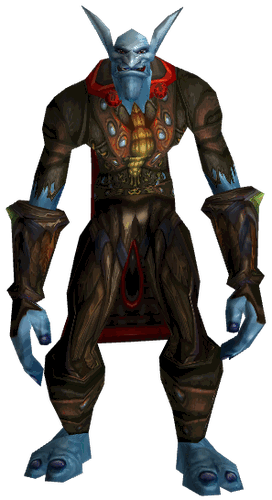
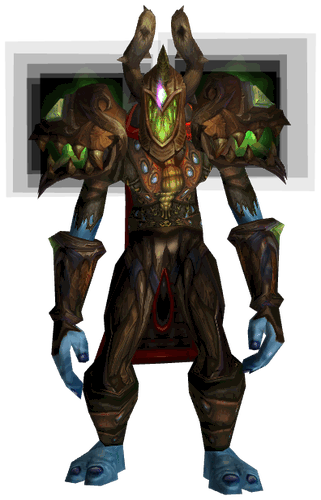
Renderiza las 31 fichas con el equipo completo
Las 31 fichas muestran ahora su personaje con casco, hombreras y toda la
armadura, incluidos los tres paladines, que hasta ahora caían al retrato de
raza porque el elfo de sangre no llegaba a dibujarse.

La causa de todo era el parche que forzaba preserveDrawingBuffer a true, que
yo mismo había añadido para poder leer el lienzo desde JavaScript. Rompía el
dibujado de los modelos pesados y de la geometría adjunta a huesos. Al
quitarlo funcionan el elfo de sangre, el casco y las hombreras, que llevaba
descartados como imposibles.

Sin ese parche no se puede leer el lienzo desde la página, así que la captura
pasa a hacerse con Puppeteer sobre el elemento, que toma el fotograma ya
compuesto. La configuración del visor replica la de Wowhead, capturada
interceptando su constructor: env 'wrath', hd:false y charCustomization con
raza y género dentro.

Se alejó la cámara un 35 %: el visor encuadra tan justo que las hombreras de
tier se salían. El ajuste se reaplica antes de cada captura porque el visor
reencuadra solo al terminar de cargar.

Las armas quedan fuera del render: su fulgor se dibuja como un cuadrado
opaco pegado al personaje, y al estar unido a él no se puede recortar. El
equipo completo se sigue viendo con el enlace 'Ver en 3D'.

Comprobado que ningún personaje toca los bordes del lienzo, y revalidado el
responsive en 6 páginas y 13 anchos de 320 a 2560 px sin desbordes ni
solapes, con las fichas entrando en una pantalla.

diff --git a/web/paladin-proteccion.html b/web/paladin-proteccion.html
@@ -340,9 +340,9 @@ body{background:var(--bg);color:var(--tx);
   </span>
[1 lines of base64/hex data omitted]
 </div></div>
-  <div class="ctr">
+  <div class="ctr con-personaje">
     <div class="ctr-bg" aria-hidden="true"></div>
[1 lines of base64/hex data omitted]
+    <img class="personaje" src="assets/personajes/paladin-proteccion.png" alt="Elfo de sangre" loading="lazy">
     <p class="ctr-t">
       <span class="i18n race" data-es="Elfo de sangre" data-en="Blood Elf">Elfo de sangre</span>
       <span class="i18n fac" data-es="Horda" data-en="Horde">Horda</span>

diff --git a/web/paladin-reprension.html b/web/paladin-reprension.html
@@ -340,9 +340,9 @@ body{background:var(--bg);color:var(--tx);
   </span>
[1 lines of base64/hex data omitted]
 </div></div>
-  <div class="ctr">
+  <div class="ctr con-personaje">
     <div class="ctr-bg" aria-hidden="true"></div>
[1 lines of base64/hex data omitted]
+    <img class="personaje" src="assets/personajes/paladin-reprension.png" alt="Elfo de sangre" loading="lazy">
     <p class="ctr-t">
       <span class="i18n race" data-es="Elfo de sangre" data-en="Blood Elf">Elfo de sangre</span>
       <span class="i18n fac" data-es="Horda" data-en="Horde">Horda</span>

diff --git a/web/paladin-sagrado.html b/web/paladin-sagrado.html
@@ -340,9 +340,9 @@ body{background:var(--bg);color:var(--tx);
   </span>
[1 lines of base64/hex data omitted]
 </div></div>
-  <div class="ctr">
+  <div class="ctr con-personaje">
     <div class="ctr-bg" aria-hidden="true"></div>
[1 lines of base64/hex data omitted]
+    <img class="personaje" src="assets/personajes/paladin-sagrado.png" alt="Elfo de sangre" loading="lazy">
     <p class="ctr-t">
       <span class="i18n race" data-es="Elfo de sangre" data-en="Blood Elf">Elfo de sangre</span>
       <span class="i18n fac" data-es="Horda" data-en="Horde">Horda</span>
